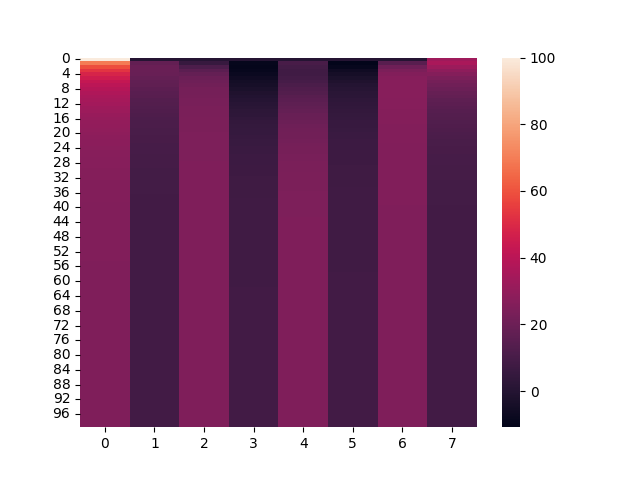
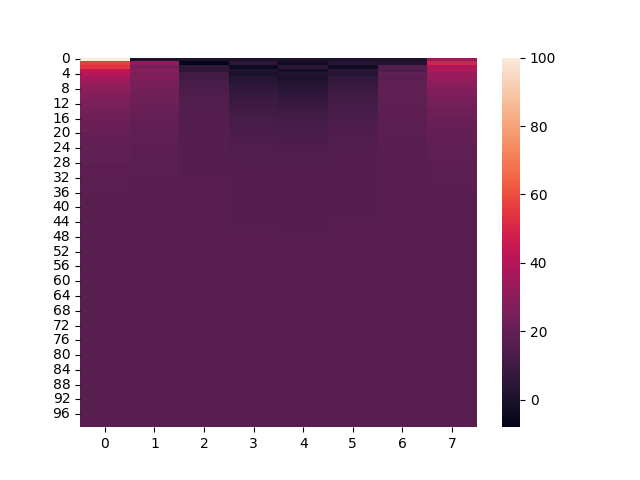
Heat Equation solved

diff --git a/heat_eq-corrected/heat_eq.py b/heat_eq-corrected/heat_eq.py
@@ -1,0 +1,22 @@
+# TODO: To solve heat equation del/del t (theta) = kappa nabla^2 (theta)  (kappa = 1)
+# Using Spectral Methods by FFTW
+
+# We first go to the Fourier Space, thus nabla^2 = -k^2, then solve for t in that space and
+# Finally, return back to real space to get the final solution
+
+#? Here, we will be dealing with 2D array, but the fourier transformation will be on the space dimension only which is 1D
+
+# Libraries
+import numpy as np
+import pyfftw
+import matplotlib.pyplot as plt
+
+# Dimensions
+T = 10; L = 2*np.pi
+Nt = 100; Nx = 8
+
+dt = T/Nt; d
+
+
+# Datatypes
+theta = pyfftw.empty_aligned((), dtype='float64')

diff --git a/heat_eq/heatmap.py b/heat_eq/heatmap.py
@@ -1,0 +1,9 @@
+import numpy as np
+import matplotlib.pyplot as plt
+import seaborn as sb
+
+heat_sol = np.loadtxt("heat_sol_cmplx_ps.dat")
+
+sb.heatmap(heat_sol)
+plt.savefig("heat_sol.png")
+# plt.show()
